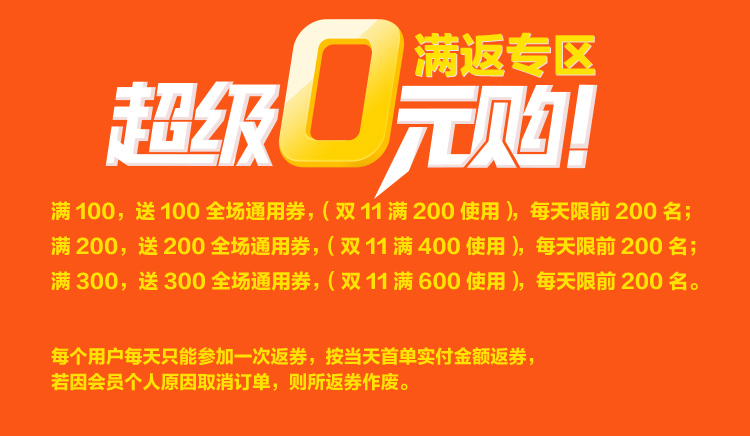
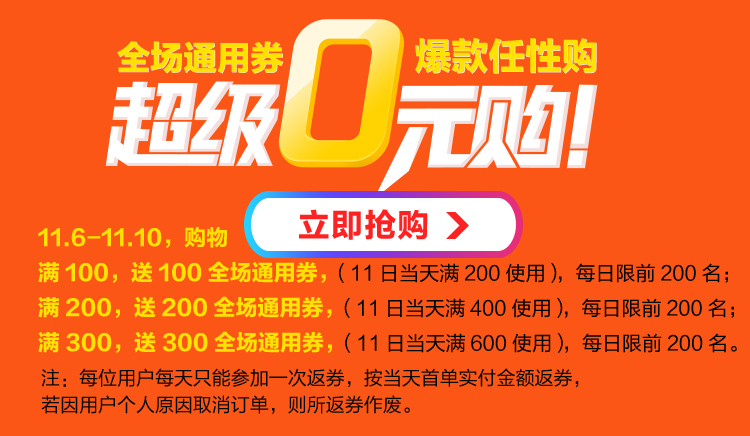
主会场最新版本

Changed region(s): [[0.0307, 0.4174, 0.9813, 0.9541], [0.552, 0.0596, 0.7973, 0.1789], [0.1533, 0.0894, 0.3987, 0.1789]]

diff --git a/appv2-index/app/html/sales11/sales.html b/appv2-index/app/html/sales11/sales.html
@@ -22,61 +22,51 @@
         
         <div class="sale_box sale_box_01">
             <img src="img/sale_03.jpg" class="sale_box_top">
-            <a href=""><img src="img/sale_06.jpg"></a>
-            <a href=""><img src="img/sale_06.jpg"></a>
-            <a href=""><img src="img/sale_06.jpg"></a>
-            <a href=""><img src="img/sale_06.jpg"></a>
-            <a href=""><img src="img/sale_06.jpg"></a>
-            <a href=""><img src="img/sale_06.jpg"></a>
+            <a href=""><img src="img/sale_03_01.jpg"></a>
+            <a href=""><img src="img/sale_03_02.jpg"></a>
+            <a href=""><img src="img/sale_03_03.jpg"></a>
+            <a href=""><img src="img/sale_03_04.jpg"></a>
         </div>
         
         <div class="sale_box sale_box_02">
-            <img src="img/sale_03.jpg" class="sale_box_top">
-            <a href=""><img src="img/sale_06.jpg"></a>
-            <a href=""><img src="img/sale_06.jpg"></a>
-            <a href=""><img src="img/sale_06.jpg"></a>
-            <a href=""><img src="img/sale_06.jpg"></a>
-            <a href=""><img src="img/sale_06.jpg"></a>
-            <a href=""><img src="img/sale_06.jpg"></a>
+            <img src="img/sale_04.jpg" class="sale_box_top">
+            <a href=""><img src="img/sale_04_01.jpg"></a>
+            <a href=""><img src="img/sale_04_02.jpg"></a>
+            <a href=""><img src="img/sale_04_03.jpg"></a>
+            <a href=""><img src="img/sale_04_04.jpg"></a>
         </div>
         
         <div class="sale_box sale_box_03">
-            <img src="img/sale_03.jpg" class="sale_box_top">
-            <a href=""><img src="img/sale_06.jpg"></a>
-            <a href=""><img src="img/sale_06.jpg"></a>
-            <a href=""><img src="img/sale_06.jpg"></a>
-            <a href=""><img src="img/sale_06.jpg"></a>
-            <a href=""><img src="img/sale_06.jpg"></a>
-            <a href=""><img src="img/sale_06.jpg"></a>
+            <img src="img/sale_05.jpg" class="sale_box_top">
+            <a href=""><img src="img/sale_05_01.jpg"></a>
+            <a href=""><img src="img/sale_05_02.jpg"></a>
+            <a href=""><img src="img/sale_05_03.jpg"></a>
+            <a href=""><img src="img/sale_05_04.jpg"></a>
         </div>
         
         <div class="sale_box sale_box_04">
-            <img src="img/sale_03.jpg" class="sale_box_top">
-            <a href=""><img src="img/sale_06.jpg"></a>
-            <a href=""><img src="img/sale_06.jpg"></a>
-            <a href=""><img src="img/sale_06.jpg"></a>
-            <a href=""><img src="img/sale_06.jpg"></a>
-            <a href=""><img src="img/sale_06.jpg"></a>
-            <a href=""><img src="img/sale_06.jpg"></a>
+            <img src="img/sale_06.jpg" class="sale_box_top">
+            <a href=""><img src="img/sale_06_01.jpg"></a>
+            <a href=""><img src="img/sale_06_02.jpg"></a>
+            <a href=""><img src="img/sale_06_03.jpg"></a>
+            <a href=""><img src="img/sale_06_04.jpg"></a>
         </div>
         
         <div class="sale_box sale_box_05">
-            <img src="img/sale_03.jpg" class="sale_box_top">
-            <a href=""><img src="img/sale_06.jpg"></a>
-            <a href=""><img src="img/sale_06.jpg"></a>
-            <a href=""><img src="img/sale_06.jpg"></a>
-            <a href=""><img src="img/sale_06.jpg"></a>
-            <a href=""><img src="img/sale_06.jpg"></a>
-            <a href=""><img src="img/sale_06.jpg"></a>
+            <img src="img/sale_07.jpg" class="sale_box_top">
+            <a href=""><img src="img/sale_07_01.jpg"></a>
+            <a href=""><img src="img/sale_07_02.jpg"></a>
+            <a href=""><img src="img/sale_07_03.jpg"></a>
+            <a href=""><img src="img/sale_07_04.jpg"></a>
         </div>
         
         <div class="sale_footer_box">
-            <a href=""><img src="img/sale_09.jpg"></a>
-            <a href=""><img src="img/sale_09.jpg"></a>
-            <a href=""><img src="img/sale_09.jpg"></a>
-            <a href=""><img src="img/sale_09.jpg"></a>
-            <a href=""><img src="img/sale_09.jpg"></a>
-            <a href=""><img src="img/sale_09.jpg"></a>
+            <a href=""><img src="img/sale_f01.jpg"></a>
+            <a href=""><img src="img/sale_f02.jpg"></a>
+            <a href=""><img src="img/sale_f03.jpg"></a>
+            <a href=""><img src="img/sale_f04.jpg"></a>
+            <a href=""><img src="img/sale_f05.jpg"></a>
+            <a href=""><img src="img/sale_f06.jpg"></a>
         </div>
         
         <div class="foot">

diff --git a/appv2-index/app/html/sales11/css/coupon.css b/appv2-index/app/html/sales11/css/coupon.css
@@ -1,11 +1,11 @@
-body{ background:#a10df9;}
+body{ background:#a91bfe;}
 .sale_top,.sale_msg,.sale_box,.sale_box_top,.sale_box a img,.sale_footer_box a img{ width:100%; height:auto; display:block; float:left;}
 .sale_box,.sale_footer_box{ padding-bottom:.2rem;}
 .sale_box a,.sale_footer_box a{ width:48.5%; height:auto; display:block; float:left; margin:.1rem 0 0 1%;}
 .foot{margin:.5rem 5% .3rem;border-top: 1px solid #ffffff;position: relative;padding-top: .21rem; float:left; width:90%;}
-.foot span{position: absolute;top: -.19rem;left: 44%;background-color: #a10df9;padding: .05rem .15rem;color: #ffffff; font-size:.25rem;-webkit-transform: translateX(-38%);transform: translateX(-38%);}
-.sale_box_01{ background:#ff8bc2;}
-.sale_box_02{ background:#ff4c4f;}
-.sale_box_03{ background:#ff9922;}
-.sale_box_04{ background:#7ab6ff;}
-.sale_box_05{ background:#a10df9;}
+.foot span{position: absolute;top: -.19rem;left: 44%;background-color: #a91bfe;padding: .05rem .15rem;color: #ffffff; font-size:.25rem;-webkit-transform: translateX(-38%);transform: translateX(-38%);}
+.sale_box_01{ background:#f53737;}
+.sale_box_02{ background:#ff8bc2;}
+.sale_box_03{ background:#4fd07e;}
+.sale_box_04{ background:#e9e225;}
+.sale_box_05{ background:#51ddc3;}
